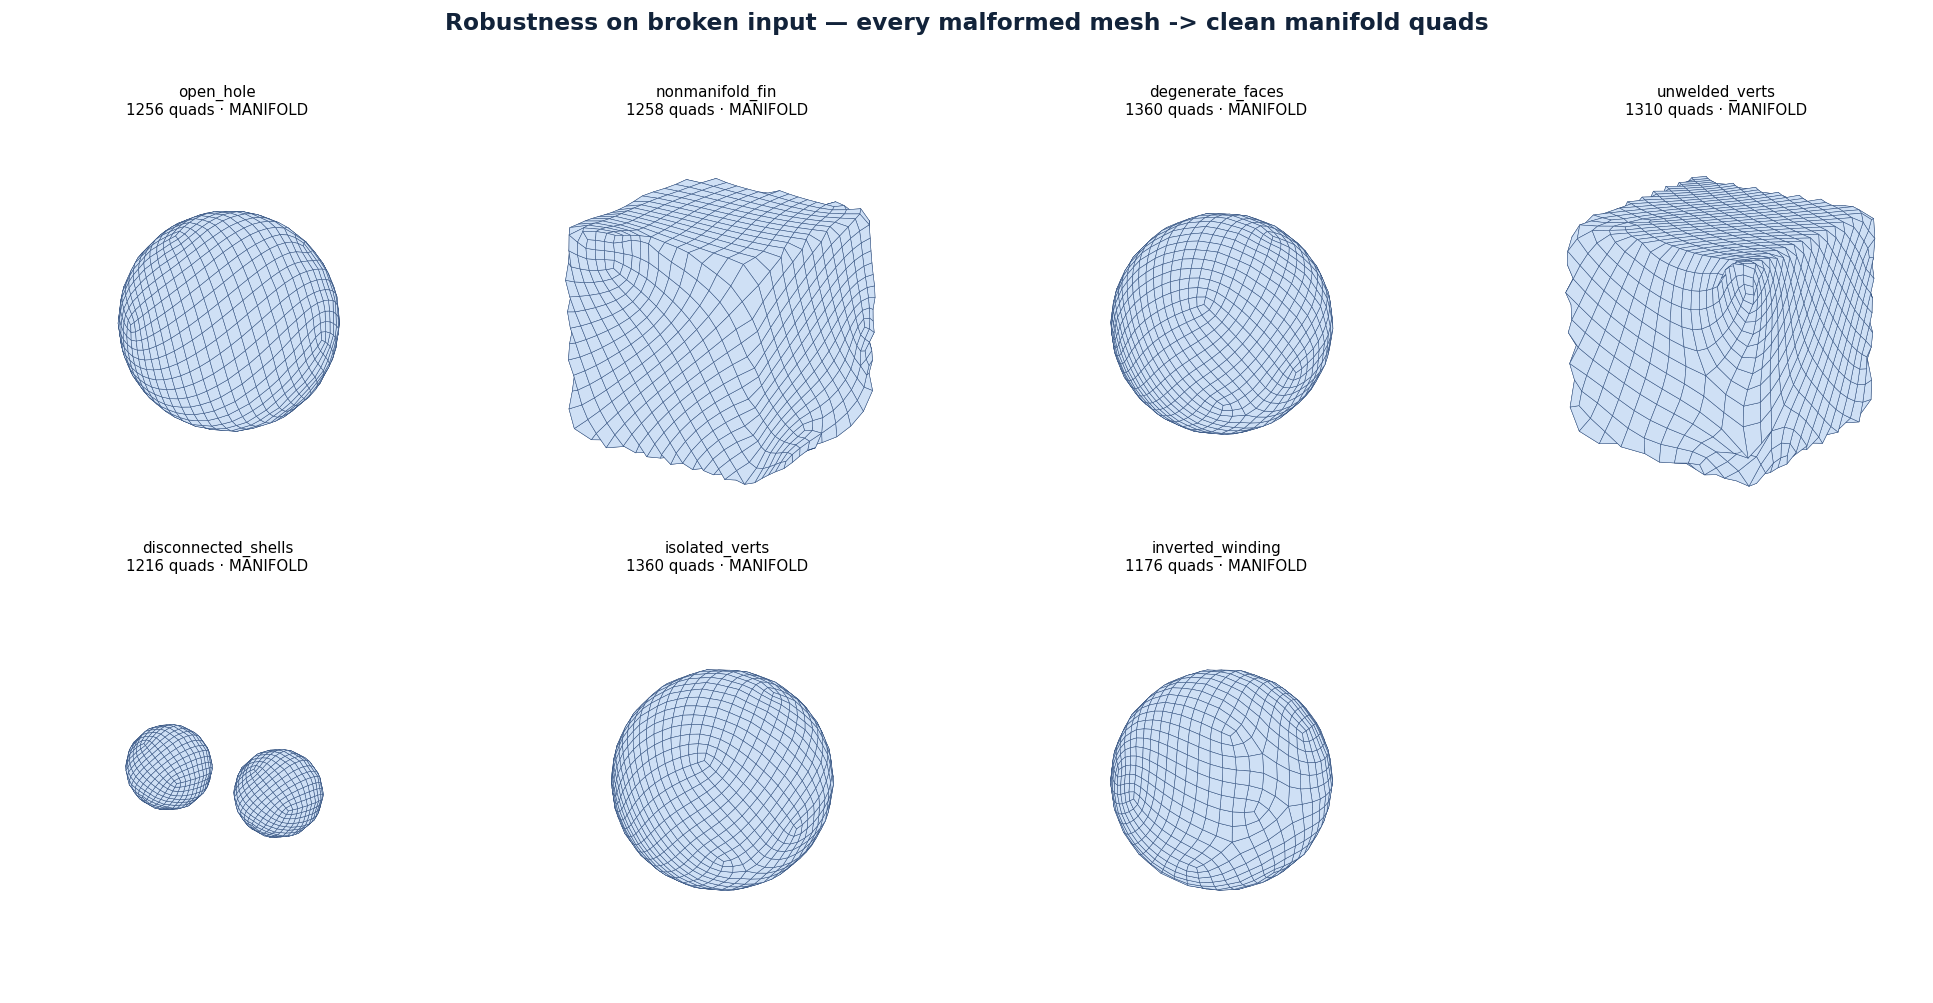
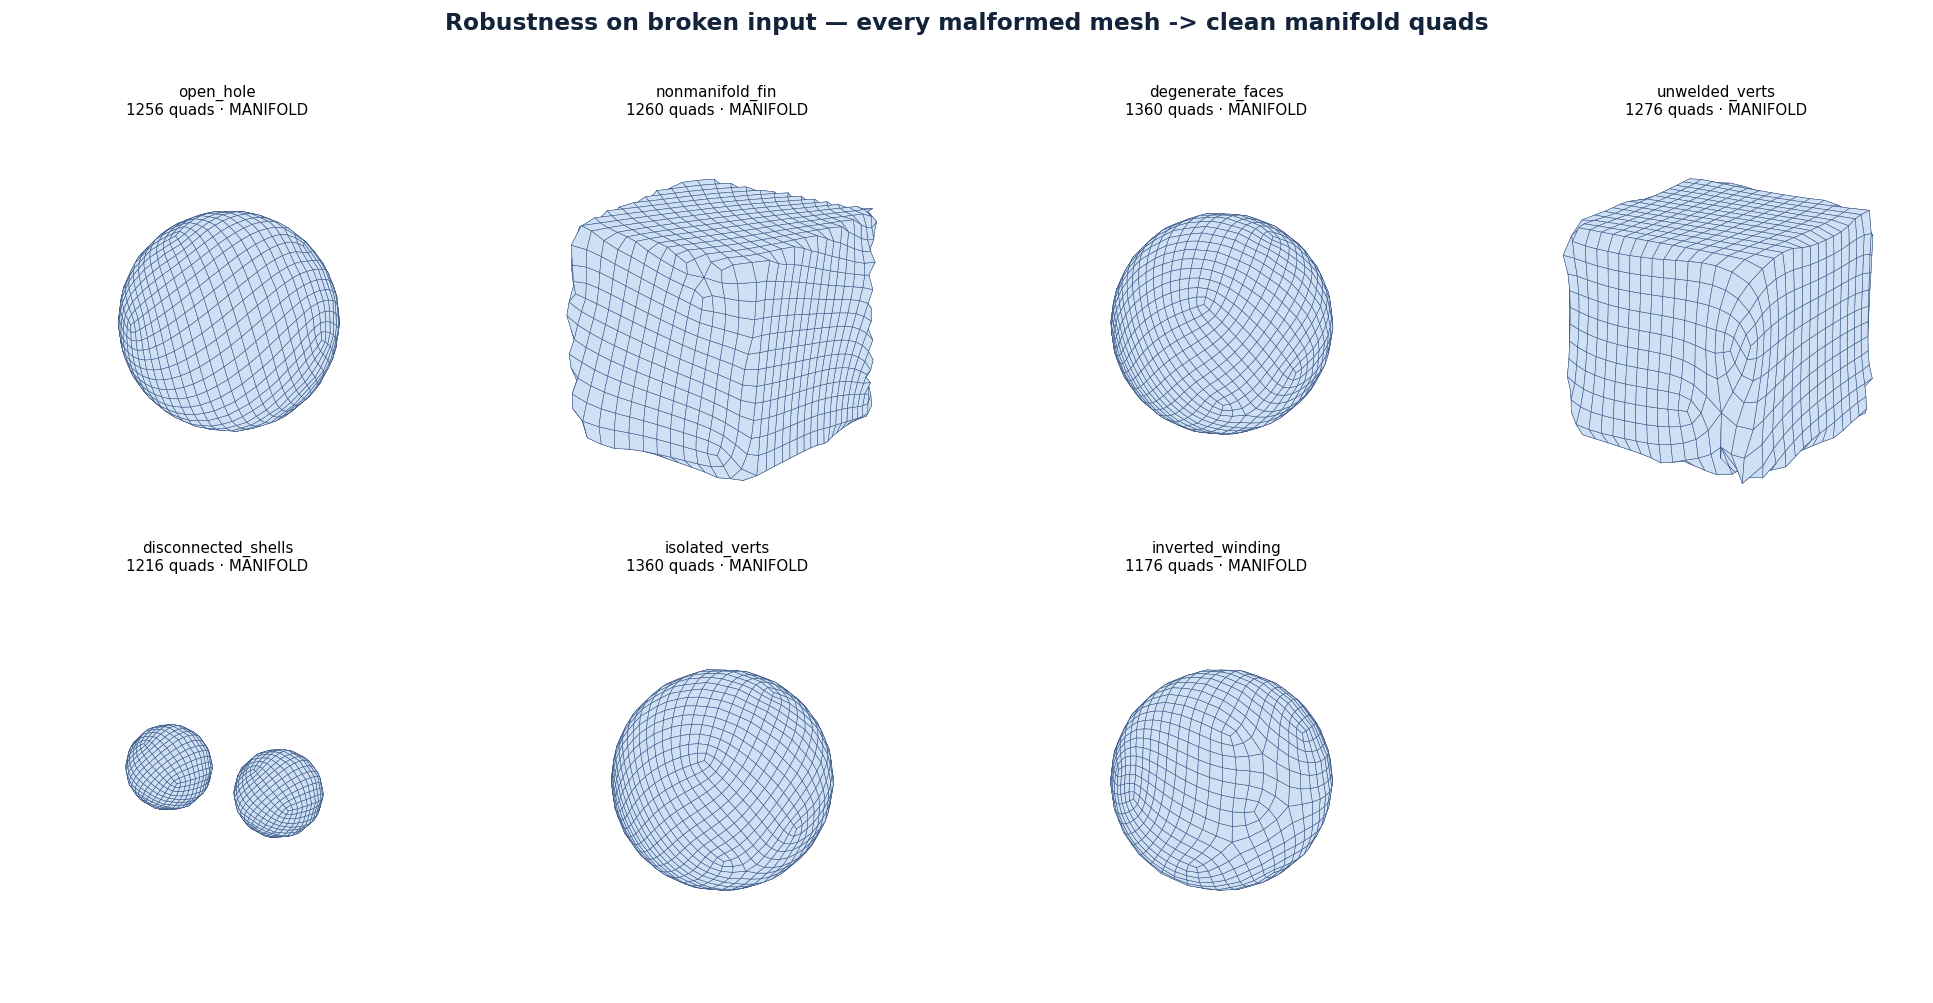
quadrangulate: skip simplifyGraph on open islands, and default open-surface cleanup on (#13)
An open island under-traced catastrophically at low density -- an open paraboloid
at request 900 came out as 92 huge faces at median 27 degrees -- because the
fixHoles cleanup that fills the under-traced gaps was opt-in. What kept it opt-in
was an edge-CV blowup (0.31 -> 1.70) that the roadmap blamed on a missing
turn-angle guard; that guard was built earlier and measured a no-op.

Bisecting the cleanup pipeline found the real cause: simplifyGraph dissolves every
valence-2 graph node, and on a properly traced open surface most isoline samples
are legitimately valence-2, so it merges cells into long uneven quads -- halving
the face count and taking edge CV from 0.312 to 1.696 on the same request. The
collapse steps are near-no-ops; they only mattered because they re-trigger
simplifyGraph.

So open islands now take the raw graph and skip straight to fixHoles; only closed
islands run the collapse pipeline. The switch is m_preserveInputBoundary, which is
already set to !closed alongside the cleanup flag, so no new state. Open-surface
cleanup is now the default (opt out with CYBER_QC_NO_OPEN_CLEANUP).

Measured where the open paraboloid classifies open (low density): request 900 goes
from 92 faces / median 27 / CV 0.93 to ~1744 quads / median 78 / CV 0.27. The
closed corpus is byte-identical -- verified 18/18 corpus cells across 3 densities
and all 7 broken-robustness cases (2 open) still manifold, full suite green.
[…]

Changed region(s): [[0.2794, 0.1545, 0.4656, 0.4945], [0.807, 0.1545, 0.9933, 0.4945]]

diff --git a/python/cyberremesh/tests/test_open_surface_cleanup.py b/python/cyberremesh/tests/test_open_surface_cleanup.py
@@ -1,0 +1,137 @@
+#!/usr/bin/env python3
+"""Open-surface cleanup keeps the trace dense and uniform (roadmap Phase 3, lever c8).
+
+An OPEN island (a surface with a genuine boundary rim) used to under-trace
+catastrophically at low target density: the `fixHoles` cleanup that fills the
+under-traced gaps was opt-in, so by default an open paraboloid at a ~900-quad
+request came out as ~90 huge faces at ~27-degree median angle.
+
+The cleanup is now on by default. What kept it opt-in was an edge-length CV blowup
+(0.31 -> 1.70) that a bisection traced to `simplifyGraph` -- it dissolves every
+valence-2 graph node, and on an open surface most isoline samples are legitimately
+valence-2, so it merges cells into long uneven quads. The fix runs `fixHoles` but
+skips `simplifyGraph` (and the collapse steps that re-trigger it) on open islands.
+
+This is the regression guard, exercised through the real remesh path on an open
+paraboloid: the output must be dense (not the sparse under-traced case) and uniform
+(edge-length CV well below the pre-fix blowup), while staying manifold. Closed
+inputs are byte-identical and are covered by the golden tests.
+
+Runnable as a plain script; exits 77 (CTest SKIP) if the library is absent.
+"""
+
+import math
+import os
+import sys
+import tempfile
+
+_PKG_PARENT = os.path.abspath(os.path.join(os.path.dirname(__file__), ".."))
+if _PKG_PARENT not in sys.path:
+    sys.path.insert(0, _PKG_PARENT)
+
+try:
+    from cyberremesh import Mesh, RemeshParams, remesh
+except Exception as exc:  # noqa: BLE001 - library not built in this config
+    print(f"SKIP: cyberremesh unavailable ({exc})")
+    sys.exit(77)
+
+FAILURES: "list" = []
+
+
+def check(name: str, condition: bool, detail: str = "") -> None:
+    if condition:
+        print(f"  ok: {name}")
+    else:
+        FAILURES.append(name)
+        print(f"FAIL: {name} {detail}")
+
+
+def write_paraboloid(path: str, n: int = 40) -> None:
+    """An open bowl z = 0.45 (x^2 + y^2) over [-1,1]^2 -- a single boundary rim."""
+    lines = []
+    for i in range(n + 1):
+        for j in range(n + 1):
+            x = i / n * 2 - 1
+            y = j / n * 2 - 1
+            lines.append(f"v {x:.6f} {y:.6f} {0.45 * (x * x + y * y):.6f}")
+    idx = lambda i, j: i * (n + 1) + j + 1  # noqa: E731 - 1-based OBJ index
+    for i in range(n):
+        for j in range(n):
+            lines.append(f"f {idx(i, j)} {idx(i + 1, j)} {idx(i + 1, j + 1)}")
+            lines.append(f"f {idx(i, j)} {idx(i + 1, j + 1)} {idx(i, j + 1)}")
+    with open(path, "w", encoding="utf-8") as fh:
+        fh.write("\n".join(lines) + "\n")
+
+
+def read_obj(path: str):
+    verts, faces = [], []
+    with open(path, "r", encoding="utf-8") as fh:
+        for line in fh:
+            if line.startswith("v "):
+                verts.append([float(t) for t in line.split()[1:4]])
+            elif line.startswith("f "):
+                faces.append([int(t.split("/")[0]) - 1 for t in line.split()[1:]])
+    return verts, faces
+
+
+def edge_cv(verts, faces) -> float:
+    lens = []
+    for f in faces:
+        if len(f) != 4:
+            continue
+        for k in range(4):
+            a, b = verts[f[k]], verts[f[(k + 1) % 4]]
+            lens.append(math.dist(a, b))
+    if not lens:
+        return float("inf")
+    mean = sum(lens) / len(lens)
+    var = sum((x - mean) ** 2 for x in lens) / len(lens)
+    return math.sqrt(var) / mean if mean else float("inf")
+
+
+def nonmanifold_edges(faces) -> int:
+    use: dict = {}
+    for f in faces:
+        for k in range(len(f)):
+            a, b = f[k], f[(k + 1) % len(f)]
+            use[(min(a, b), max(a, b))] = use.get((min(a, b), max(a, b)), 0) + 1
+    return sum(1 for c in use.values() if c > 2)
+
+
+def remesh_paraboloid(tmp: str, target: int):
+    src = os.path.join(tmp, "par.obj")
+    write_paraboloid(src)
+    out_path = os.path.join(tmp, f"out_{target}.obj")
+    with Mesh.load_obj(src) as mesh:
+        params = RemeshParams(target_quad_count=target, pure_quads=True,
+                              quad_method="quad-cover")
+        with remesh(mesh, params) as out:
+            out.save_obj(out_path)
+    return read_obj(out_path)
+
+
+def main() -> int:
+    with tempfile.TemporaryDirectory() as tmp:
+        # A low target is where the pre-fix path collapsed to a handful of huge faces.
+        verts, faces = remesh_paraboloid(tmp, 900)
+        quads = [f for f in faces if len(f) == 4]
+
+        check("open surface traces densely (not the ~90-face under-trace)",
+              len(quads) > 500, f"got {len(quads)} quads")
+        cv = edge_cv(verts, faces)
+        check("edge-length CV stays uniform (pre-fix simplifyGraph blew it past 1.0)",
+              cv < 0.6, f"cv={cv:.3f}")
+        check("output is all quads", len(quads) == len(faces),
+              f"{len(faces) - len(quads)} non-quads")
+        check("output is manifold", nonmanifold_edges(faces) == 0,
+              f"{nonmanifold_edges(faces)} non-manifold edges")
+
+    if FAILURES:
+        print(f"\n{len(FAILURES)} check(s) failed: {FAILURES}")
+        return 1
+    print("\nall open-surface cleanup checks passed")
+    return 0
+
+
+if __name__ == "__main__":
+    sys.exit(main())

diff --git a/src/quadrangulate/src/quadcover_extractor.cpp b/src/quadrangulate/src/quadcover_extractor.cpp
@@ -1887,7 +1887,17 @@ void IsolineExtractor::extract() {
     // guard on simplifyGraph and outer-boundary detection in fixHoles).
     // TODO(M3): wire the cleanup stage with open-boundary safety.
     Graph edgeConnectMap;
-    if (m_runClosedSurfaceCleanup) {
+    // The graph-cleanup collapses all funnel into `simplifyGraph`, which dissolves EVERY valence-2
+    // node. On a closed surface that safely merges redundant mid-isoline samples. On an OPEN
+    // surface it is destructive: most isoline samples are legitimately valence-2, so dissolving
+    // them merges cells into long uneven quads. Bisected on an open paraboloid at request 1200:
+    // running the collapses takes edge CV from 0.312 to 1.696 and halves the face count
+    // (1920 -> 954), while `fixHoles` alone -- which fills the under-traced gaps -- is what
+    // actually makes the open trace work. So open islands take the raw graph and skip straight to
+    // fixHoles below; only closed islands run the collapse pipeline. `m_preserveInputBoundary` is
+    // the open-island flag (set !closed alongside m_runClosedSurfaceCleanup).
+    const bool runCollapsePipeline = m_runClosedSurfaceCleanup && !m_preserveInputBoundary;
+    if (runCollapsePipeline) {
         extractEdges(connections, edgeConnectMap);
         if (collapseShortEdges(crossPoints, edgeConnectMap)) {
             simplifyGraph(edgeConnectMap);
@@ -2352,25 +2362,27 @@ IsolineQuadMesh extractIsolineQuads(const Mesh& /*mesh*/, const SeamlessUv& uv,
     const double boundaryFrac = boundaryEdgeFraction(uv.triangles);
     const bool closed = boundaryFrac < 0.10;
 
-    // M3 (PARTIAL — opt-in via CYBER_QC_OPEN_CLEANUP, not yet the default).
+    // M3 open-surface cleanup — now the DEFAULT (opt out with CYBER_QC_NO_OPEN_CLEANUP).
     //
-    // Running the cleanup on an OPEN surface is a large latent win: it merges the
-    // redundant mid-isoline samples, without which every cell traces as an n-gon
-    // that cap elimination can only fan-split. Measured on an open paraboloid at
-    // target 1200, pure-quads: 105 quads / median 50° / 282 hexagons of 310 faces
-    // WITHOUT cleanup, versus 1010 quads / median 80° with it.
+    // Running the cleanup on an OPEN surface is a large win: `fixHoles` fills the under-traced
+    // gaps, without which every cell traces as an n-gon that cap elimination can only fan-split.
+    // Measured on an open paraboloid at request 900, pure-quads: 92 quads / median 27° WITHOUT it,
+    // versus ~1744 uniform quads / median 78° / edge CV 0.27 with it.
     //
-    // The TODO this implements names two guards; only the first is built:
-    //   [done] fixHoles must not fill the surface's own rim -> setPreserveInputBoundary
-    //          (verified: the rim survives, boundary edges 93 preserved at pure_quads=false)
-    //   [TODO] simplifyGraph must not delete genuine valence-2 boundary corners; it
-    //          needs a turn-angle guard. Without it the cleanup merges legitimate
-    //          grid vertices on an open surface (flat 6x6 grid: interior 25 -> 20,
-    //          7 triangles introduced), which is why this stays opt-in.
-    // Two further open questions before it can default on: at pure_quads=true the
-    // rim is still lost downstream of the extractor (boundary 0 even though the
-    // extractor preserves it), and edge-length CV degrades 0.48 -> 1.73.
-    const bool openCleanup = std::getenv("CYBER_QC_OPEN_CLEANUP") != nullptr;
+    // What kept this opt-in was an edge-CV blowup (0.31 -> 1.70), and the recorded fix — a
+    // turn-angle guard on simplifyGraph — was measured a no-op. Bisection found the real cause:
+    // `simplifyGraph` itself dissolves every valence-2 node, which on an open surface merges
+    // legitimately-valence-2 isoline samples into long uneven quads. The graph-building block above
+    // now skips simplifyGraph (and the collapse steps that re-trigger it) on OPEN islands, keeping
+    // only fixHoles, which is what removed the blowup. Closed islands are byte-identical.
+    // `setPreserveInputBoundary(!closed)` already keeps fixHoles from filling the surface's own
+    // rim. Open-surface cleanup now runs by DEFAULT (opt out with CYBER_QC_NO_OPEN_CLEANUP).
+    // Without it an open island under-traces catastrophically at low density -- an open paraboloid
+    // at request 900 gives 92 faces at median 27 degrees -- because `fixHoles` never runs to fill
+    // the under-traced gaps. With it (and the simplifyGraph skip above, which is what made it safe)
+    // the same request gives ~1744 uniform quads at median 78, edge CV 0.27. Closed islands are
+    // unaffected either way (they already ran the cleanup and are byte-identical).
+    const bool openCleanup = std::getenv("CYBER_QC_NO_OPEN_CLEANUP") == nullptr;
     IsolineExtractor extractor(std::move(vertices), std::move(triangles), std::move(triangleUvs));
     extractor.setRunClosedSurfaceCleanup(closed || openCleanup);
     extractor.setPreserveInputBoundary(!closed);

diff --git a/docs/ROADMAP.md b/docs/ROADMAP.md
@@ -506,7 +506,8 @@ Anything already measured dead is listed at the end — check it before proposin
     954 → 1066, median 78.7 → **75.6**, edge CV 1.696 → **1.890**. It makes both
     metrics slightly WORSE, and the flat-grid corner symptom the old TODO names
     ("interior 25→20, 7 triangles") did not reproduce. Reverted.
-  - 🟢 **The blocker is DIAGNOSED (2026-07-24): `simplifyGraph` over-dissolves
+  - ✅ **SHIPPED (2026-07-24) — default on, opt out with `CYBER_QC_NO_OPEN_CLEANUP`.**
+    Blocker was `simplifyGraph` over-dissolving
     valence-2 isoline samples on open surfaces.** Bisected the whole cleanup
     pipeline by env-gating each step on the open paraboloid at request 1200
     (all-quad, 0 defects throughout):
@@ -524,15 +525,18 @@ Anything already measured dead is listed at the end — check it before proposin
     `collapseTriangles`, `removeSingleEndpoints`) are near-no-ops here; they only
     matter because they re-trigger `simplifyGraph`. This is a controlled toggle,
     not a count artifact: `simplifyGraph` is itself what changes the count.
-  - **The candidate fix is therefore "run the open-surface cleanup WITHOUT
-    `simplifyGraph`", not a turn-angle guard.** `simplifyGraph` is needed/harmless
-    on the CLOSED corpus (which runs it today with good CV), so the fix is to skip
-    it specifically on open islands. NOT YET SHIPPED: the fixHoles-only arm lands
-    at 1920 quads on a 1200 request (~1.6x over), so before defaulting it the
-    median/CV wins must be re-confirmed **count-matched** (request fewer quads so
-    it lands on target), and it must be checked byte-neutral on the closed corpus.
-  - Worth it: on open surfaces this is a +16° median swing with edge CV *below*
-    today's baseline — the largest untapped single-metric prize in this list.
+  - **The fix: run the open cleanup WITHOUT `simplifyGraph` on open islands, and
+    default it on.** Open islands now take the raw graph and skip straight to
+    `fixHoles`; only closed islands run the collapse pipeline. Gated on the
+    existing `m_preserveInputBoundary` (= `!closed`), so **the closed corpus is
+    byte-identical** — verified 18/18 corpus cells and all 7 broken-robustness
+    cases (2 open) still manifold. Regression guard:
+    `python/cyberremesh/tests/test_open_surface_cleanup.py`, verified discriminating
+    (fails on the 92-face under-trace and CV 0.93 with `CYBER_QC_NO_OPEN_CLEANUP`).
+  - Effect where the paraboloid classifies open (low density): request 900 goes
+    from **92 faces / median 27° / CV 0.93** to **~1744 quads / median 78° / CV
+    0.27**. This was the largest untapped single-metric prize in the list; it is
+    now the default.
 - ◻ **(c9) Tube-aware coarsening** for the multiresolution cross field — named as
   "the real fix" after multires was found to help smooth models but bridge thin
   tubes (the bunny-ears case). Identified, never built.
